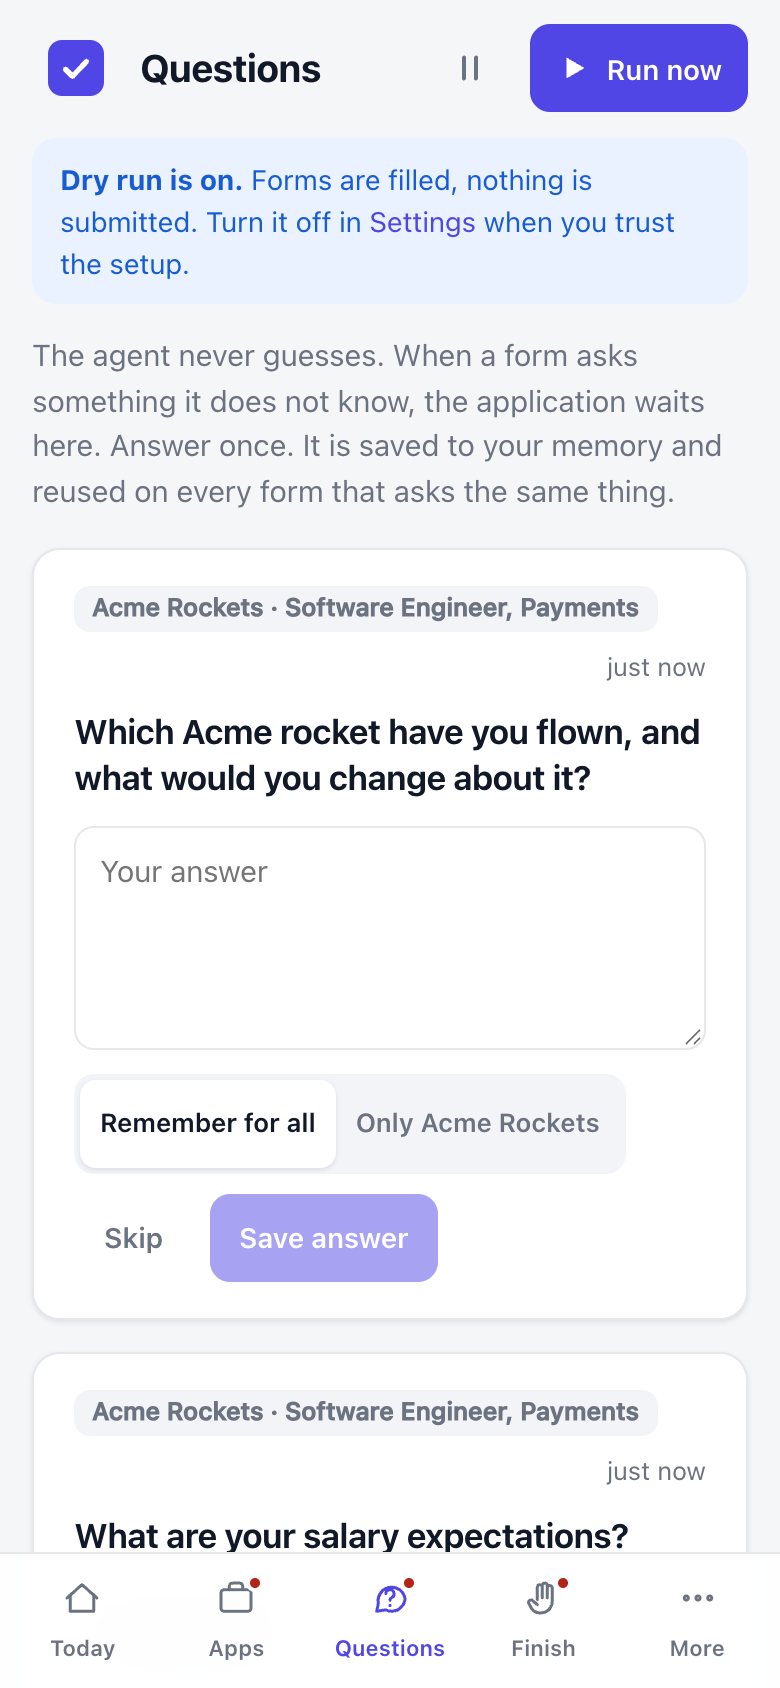
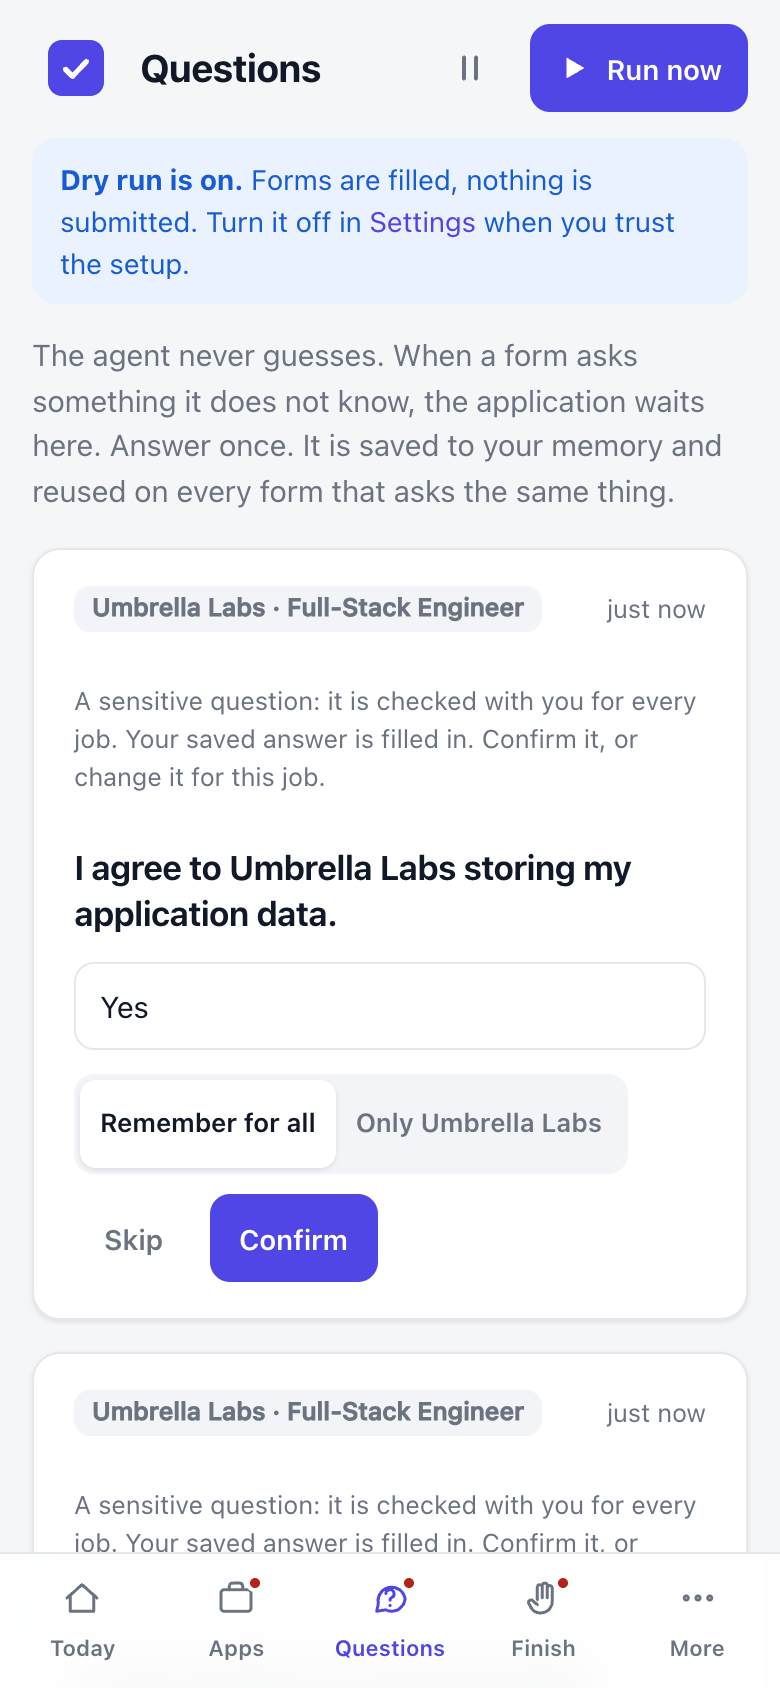
Confirm cards show the saved answer with a Confirm button; screenshots retaken
Sensitive questions now carry the stored answer (questions.suggested), pre-filled on the
Questions page with a short note. Settings hint for 'remote' updated. Screenshots
retaken from the demo, which now shows the confirmation cards.

diff --git a/src/core/store.ts b/src/core/store.ts
@@ -218,6 +218,8 @@ export interface Question {
   memory_id: number | null;
   /** "ask": no answer yet. "confirm": a sensitive question with a stored answer you confirm per application. */
   kind: "ask" | "confirm";
+  /** For "confirm": the stored answer, shown pre-filled for you to confirm or change. */
+  suggested: string | null;
   created_at: string;
   answered_at: string | null;
 }
@@ -230,6 +232,7 @@ export interface NewQuestion {
   fieldType?: string;
   /** "confirm": a sensitive question for one application; never merged with other applications' cards. */
   kind?: "ask" | "confirm";
+  suggested?: string;
 }
 
 /**
@@ -256,8 +259,8 @@ export function askQuestion(db: DB, q: NewQuestion): { id: number; duplicate: bo
   }
   const res = db
     .prepare(
-      `INSERT INTO questions(application_id, question, context, options, field_type, status, created_at, kind)
-       VALUES(?, ?, ?, ?, ?, 'open', ?, ?)`,
+      `INSERT INTO questions(application_id, question, context, options, field_type, status, created_at, kind, suggested)
+       VALUES(?, ?, ?, ?, ?, 'open', ?, ?, ?)`,
     )
     .run(
       q.applicationId ?? null,
@@ -267,6 +270,7 @@ export function askQuestion(db: DB, q: NewQuestion): { id: number; duplicate: bo
       q.fieldType ?? "text",
       now(),
       kind,
+      q.suggested ?? null,
     );
   const id = Number(res.lastInsertRowid);
   if (q.applicationId) linkQuestion(db, id, q.applicationId);

diff --git a/web/src/pages/Questions.tsx b/web/src/pages/Questions.tsx
@@ -57,7 +57,8 @@ export function Questions({ onChange }: { onChange: () => void }) {
 }
 
 function QuestionCard({ q, onDone }: { q: Question; onDone: () => void }) {
-  const [answer, setAnswer] = useState("");
+  const confirm = q.kind === "confirm";
+  const [answer, setAnswer] = useState(q.suggested ?? "");
   const [scope, setScope] = useState<"global" | "company">("global");
   const [busy, setBusy] = useState(false);
   const company = q.applications[0]?.company;
@@ -95,6 +96,12 @@ function QuestionCard({ q, onDone }: { q: Question; onDone: () => void }) {
         )}
         <span className="muted small">{ago(q.created_at)}</span>
       </div>
+      {confirm && (
+        <p className="muted small">
+          A sensitive question: it is checked with you for every job. Your saved answer is filled in. Confirm
+          it, or change it for this job.
+        </p>
+      )}
       <h3 className="q-text">{q.question}</h3>
       {q.options.length > 0 && (
         <div className="options">
@@ -156,7 +163,7 @@ function QuestionCard({ q, onDone }: { q: Question; onDone: () => void }) {
             Skip
           </button>
           <button type="button" className="btn btn-primary" disabled={busy || !answer.trim()} onClick={save}>
-            Save answer
+            {confirm && answer.trim() === (q.suggested ?? "").trim() ? "Confirm" : "Save answer"}
           </button>
         </div>
       </div>

diff --git a/src/mcp/desk.ts b/src/mcp/desk.ts
@@ -208,6 +208,7 @@ export class Desk {
         context: stored
           ? `Your stored answer: "${stored}". Sensitive questions are checked with you for each application (${a.title} at ${a.company}). Confirm it or change it.`
           : `Sensitive question for ${a.title} at ${a.company}. It is always checked with you.`,
+        suggested: stored,
       },
       "confirm",
     );
@@ -218,7 +219,7 @@ export class Desk {
   }
 
   private queueQuestion(
-    input: { question: string; context?: string; options?: string[]; fieldType?: string },
+    input: { question: string; context?: string; options?: string[]; fieldType?: string; suggested?: string },
     kind: "ask" | "confirm",
   ) {
     const a = this.app();
@@ -230,6 +231,7 @@ export class Desk {
       options: input.options,
       fieldType: input.fieldType,
       kind,
+      suggested: input.suggested,
     });
     if (a.status !== "needs_answers")
       setStatus(this.db, a.id, "needs_answers", { reason: "waiting for your answers" });

diff --git a/tests/safety.test.ts b/tests/safety.test.ts
@@ -189,6 +189,7 @@ describe("sensitive questions always come back to you", () => {
     expect(notice).toMatchObject({ status: "known", answer: "30 days" });
     const q = listQuestions(db).find((x) => x.kind === "confirm")!;
     expect(q.context).toContain('Your stored answer: "Yes"');
+    expect(q.suggested).toBe("Yes");
     expect(getApplication(db, id)?.status).toBe("needs_answers");
 
     // You confirm it: this application may use it now.

diff --git a/web/src/pages/Settings.tsx b/web/src/pages/Settings.tsx
@@ -113,7 +113,7 @@ export function Settings({ onChange }: { onChange: () => void }) {
         <Field label="Skip titles containing" value={form.exclude} onChange={set("exclude")} />
         <Field
           label="Locations"
-          hint="'remote' matches remote roles"
+          hint="'remote' matches remote roles open in your country"
           value={form.locations}
           onChange={set("locations")}
         />

diff --git a/src/core/db.ts b/src/core/db.ts
@@ -105,6 +105,7 @@ const MIGRATIONS: string[] = [
   `ALTER TABLE applications ADD COLUMN approved_hash TEXT;
    ALTER TABLE applications ADD COLUMN apply_email TEXT;
    ALTER TABLE questions ADD COLUMN kind TEXT NOT NULL DEFAULT 'ask';
+   ALTER TABLE questions ADD COLUMN suggested TEXT;
 
    CREATE TABLE confirmations (
      application_id INTEGER NOT NULL REFERENCES applications(id) ON DELETE CASCADE,

diff --git a/web/src/api.ts b/web/src/api.ts
@@ -111,6 +111,9 @@ export interface Question {
   answer: string | null;
   created_at: string;
   answered_at: string | null;
+  /** "confirm": a sensitive question with a saved answer to check for this job. */
+  kind: "ask" | "confirm";
+  suggested: string | null;
   applications: { id: number; company: string; title: string }[];
 }
 
